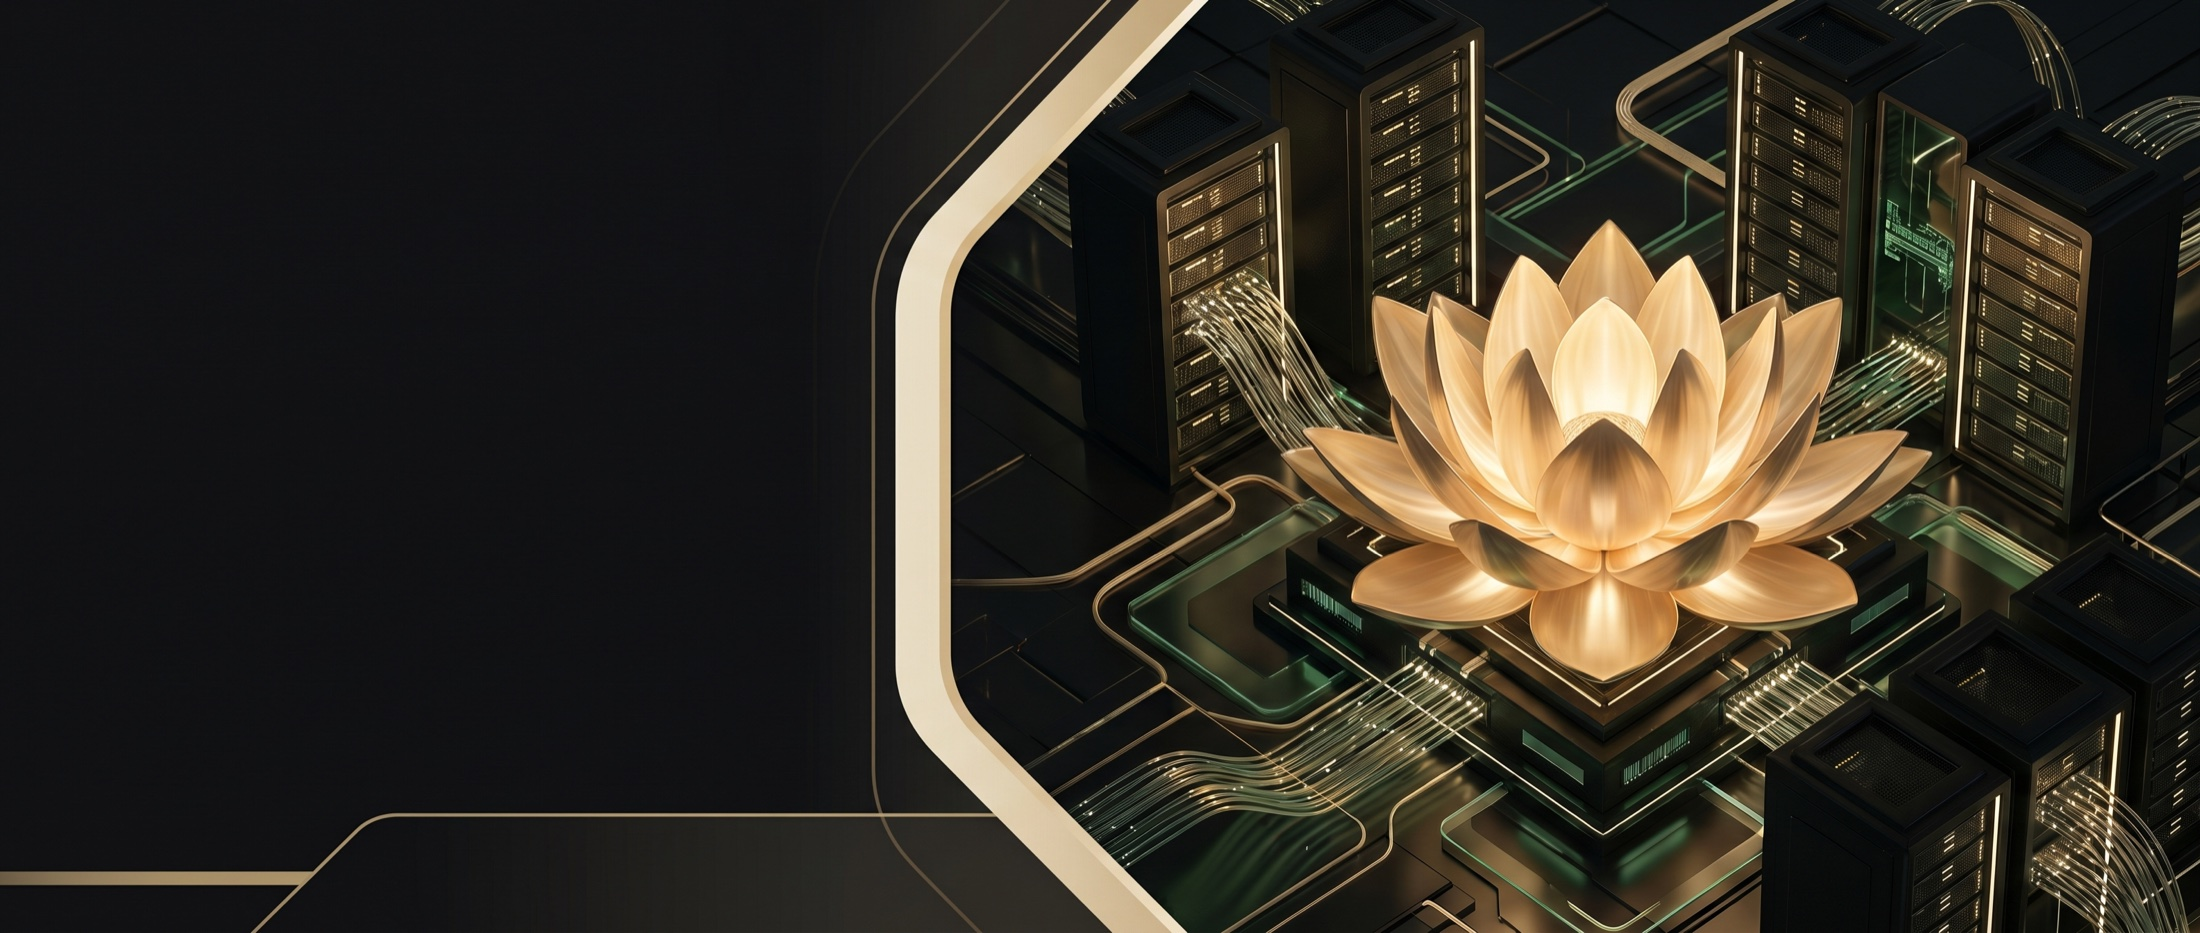
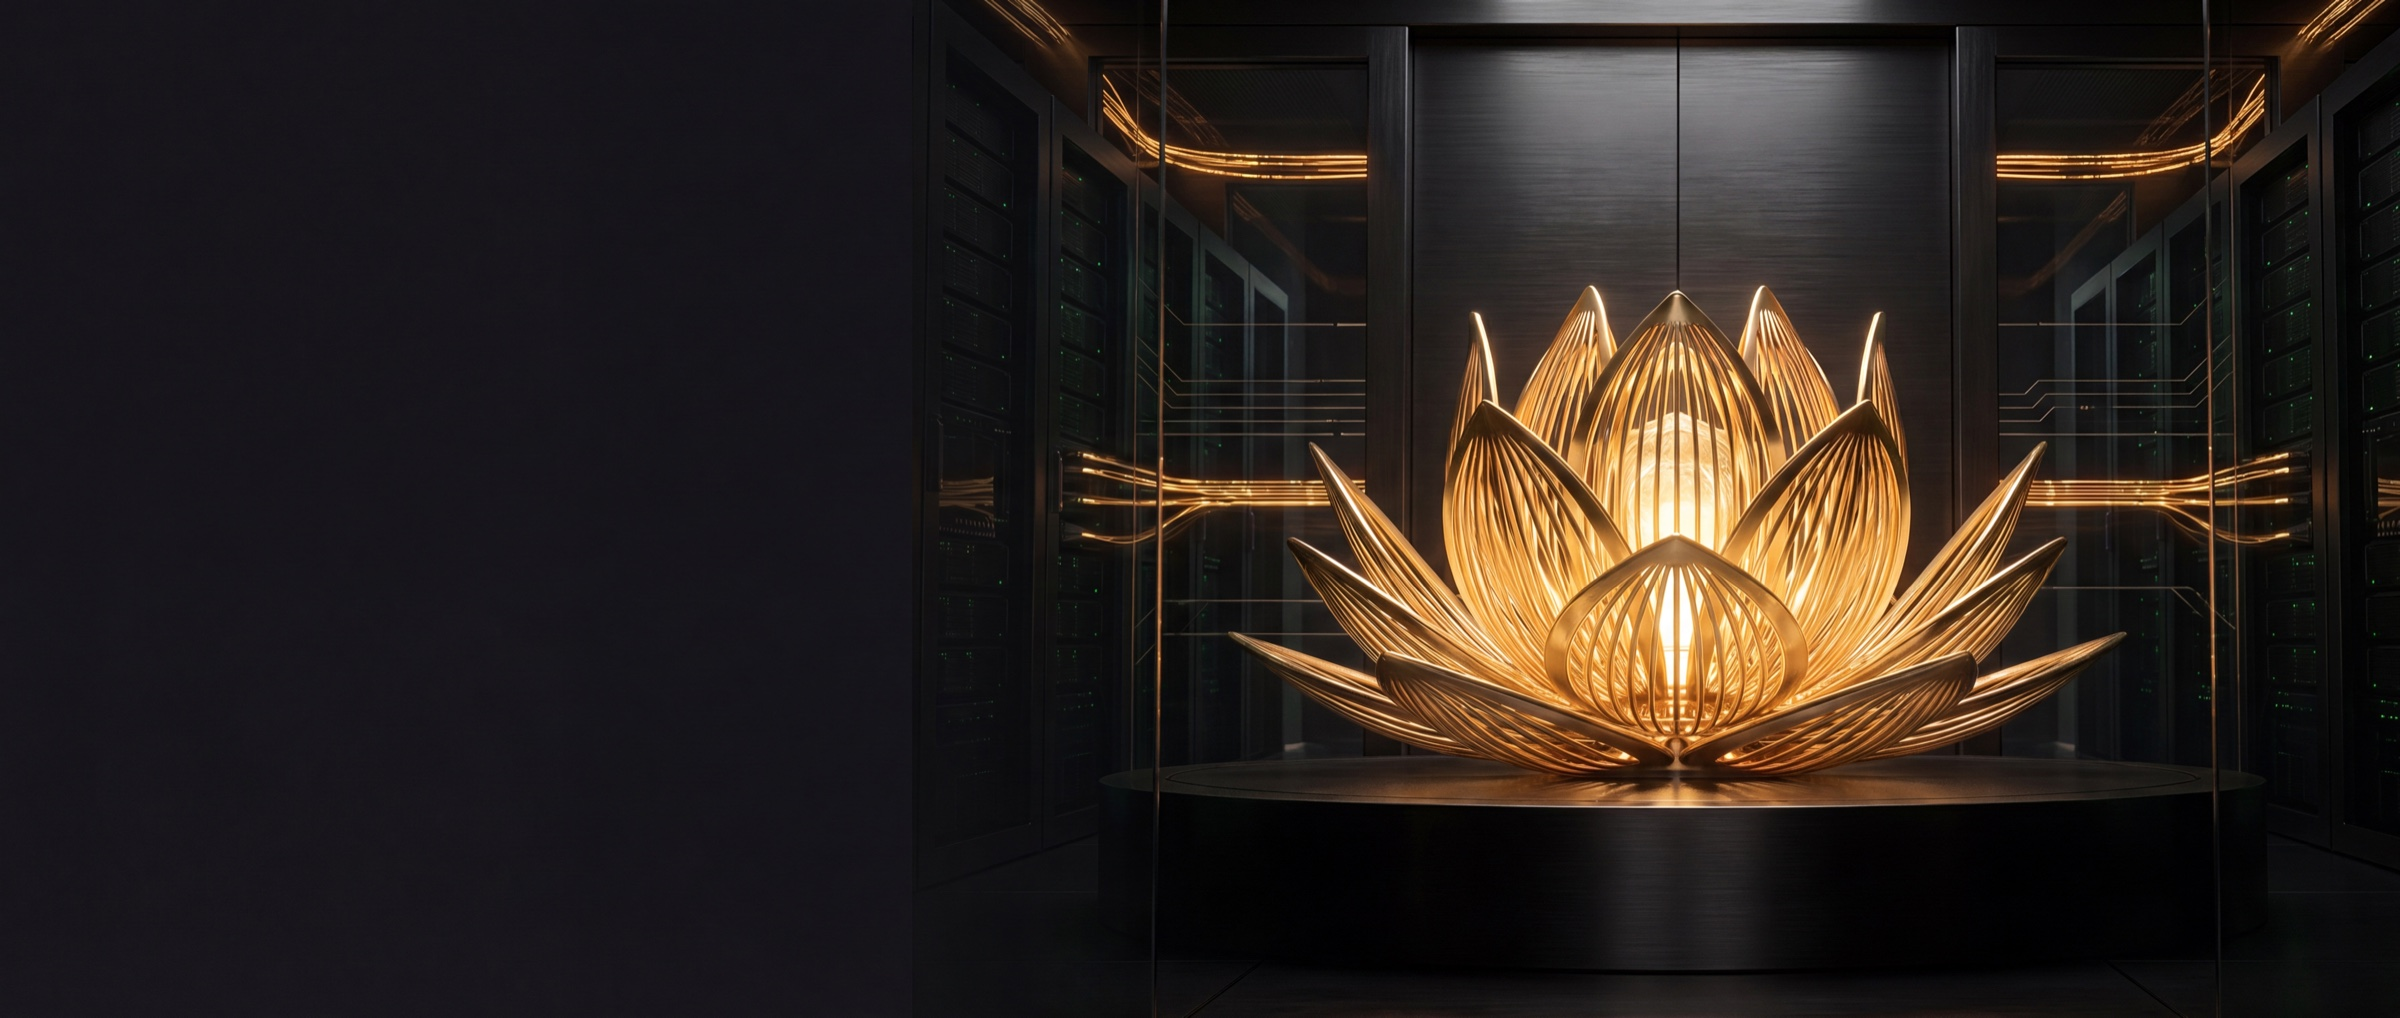
Refine hero composition

diff --git a/index.html b/index.html
@@ -181,7 +181,7 @@
 
     .hero{
       position:relative;
-      min-height:78svh;
+      min-height:74svh;
       display:flex;
       align-items:center;
       overflow:hidden;
@@ -204,7 +204,7 @@
       z-index:-2;
       background-image:url("assets/hero-higgsfield-21x9.jpg");
       background-size:cover;
-      background-position:center right;
+      background-position:center center;
       transform:scale(1.02);
       animation:heroDrift 18s ease-in-out infinite alternate;
       transform-origin:62% 48%;
@@ -232,34 +232,6 @@
       gap:14px;
       margin-bottom:26px;
     }
-    .hero-proof{
-      display:grid;
-      grid-template-columns:repeat(3, minmax(0, 1fr));
-      max-width:720px;
-      border:1px solid rgba(242,209,132,.2);
-      background:rgba(8,17,13,.62);
-      backdrop-filter:blur(18px);
-    }
-    .proof-item{
-      min-height:78px;
-      padding:15px 18px;
-      border-right:1px solid rgba(242,209,132,.16);
-    }
-    .proof-item:last-child{border-right:0}
-    .proof-item strong{
-      display:block;
-      margin-bottom:6px;
-      color:var(--gold-2);
-      font-family:var(--serif);
-      font-size:1.32rem;
-      line-height:1;
-    }
-    .proof-item span{
-      color:var(--muted);
-      font-size:.86rem;
-      line-height:1.45;
-    }
-
     .split-head{
       display:grid;
       grid-template-columns:minmax(0, .95fr) minmax(280px, .72fr);
@@ -538,7 +510,6 @@
           linear-gradient(0deg, var(--ink) 0%, rgba(5,7,6,0) 34%);
       }
       .hero-art{background-position:64% center}
-      .hero-proof,
       .tracks,
       .work-grid,
       .about-panel,
@@ -546,8 +517,6 @@
       .proof-row{
         grid-template-columns:1fr;
       }
-      .proof-item{border-right:0; border-bottom:1px solid rgba(242,209,132,.16)}
-      .proof-item:last-child{border-bottom:0}
       .capabilities{grid-template-columns:repeat(2, minmax(0, 1fr))}
       .standards{justify-content:flex-start}
       .case{min-height:0}
@@ -566,7 +535,6 @@
         max-width:720px;
         margin-bottom:22px;
       }
-      .hero-proof{display:none}
     }
 
     @media (max-width:620px){
@@ -586,7 +554,6 @@
       .hero-sub{font-size:1.02rem}
       .hero-actions{margin-bottom:26px}
       .button{width:100%; min-height:50px}
-      .hero-proof{display:none}
       .track{min-height:auto; padding:24px}
       .capabilities{grid-template-columns:1fr}
       .case-media{height:190px}
@@ -639,20 +606,6 @@
               <svg viewBox="0 0 24 24" fill="none" aria-hidden="true"><path d="M5 12h14m-6-6 6 6-6 6" stroke="currentColor" stroke-width="2" stroke-linecap="round" stroke-linejoin="round"/></svg>
             </a>
             <a class="button secondary" href="#work">See the work</a>
-          </div>
-          <div class="hero-proof" aria-label="Core consulting strengths">
-            <div class="proof-item">
-              <strong>AI</strong>
-              <span>Local automation, internal tooling, and workflows that remove operational drag.</span>
-            </div>
-            <div class="proof-item">
-              <strong>GRC</strong>
-              <span>SOX, PCI-DSS, FISMA, NIST CSF, CIS, evidence, and control automation.</span>
-            </div>
-            <div class="proof-item">
-              <strong>Cloud</strong>
-              <span>AWS, Kubernetes, Terraform, CI/CD, observability, and reliability engineering.</span>
-            </div>
           </div>
         </div>
       </div>